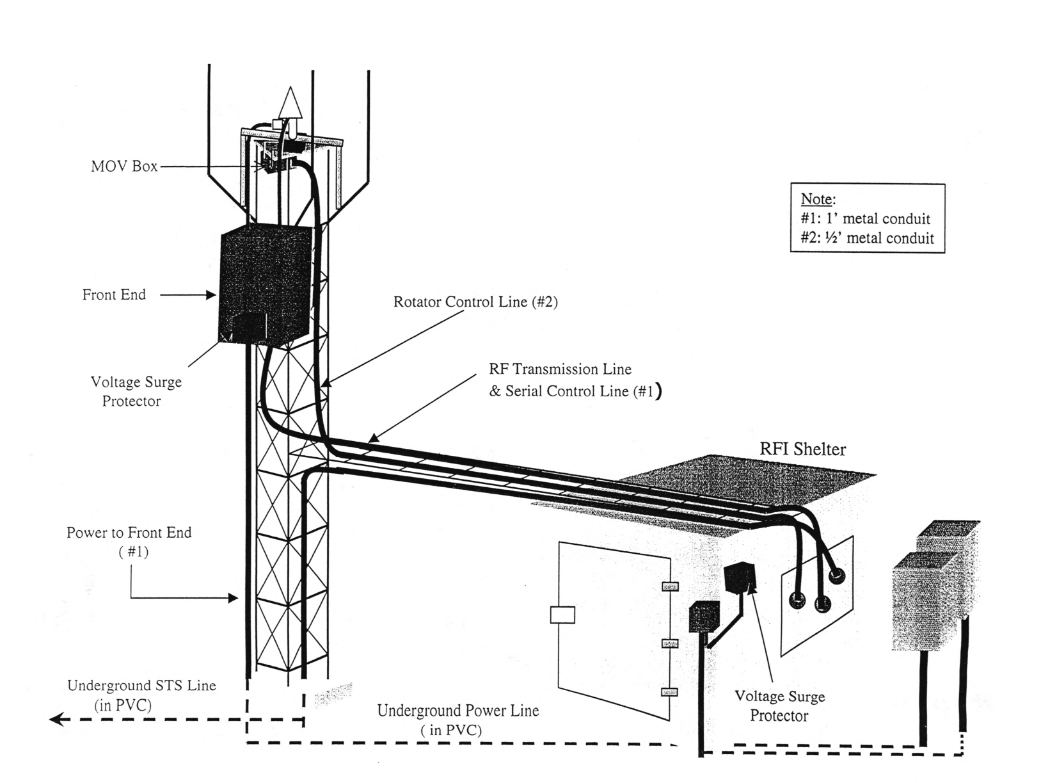
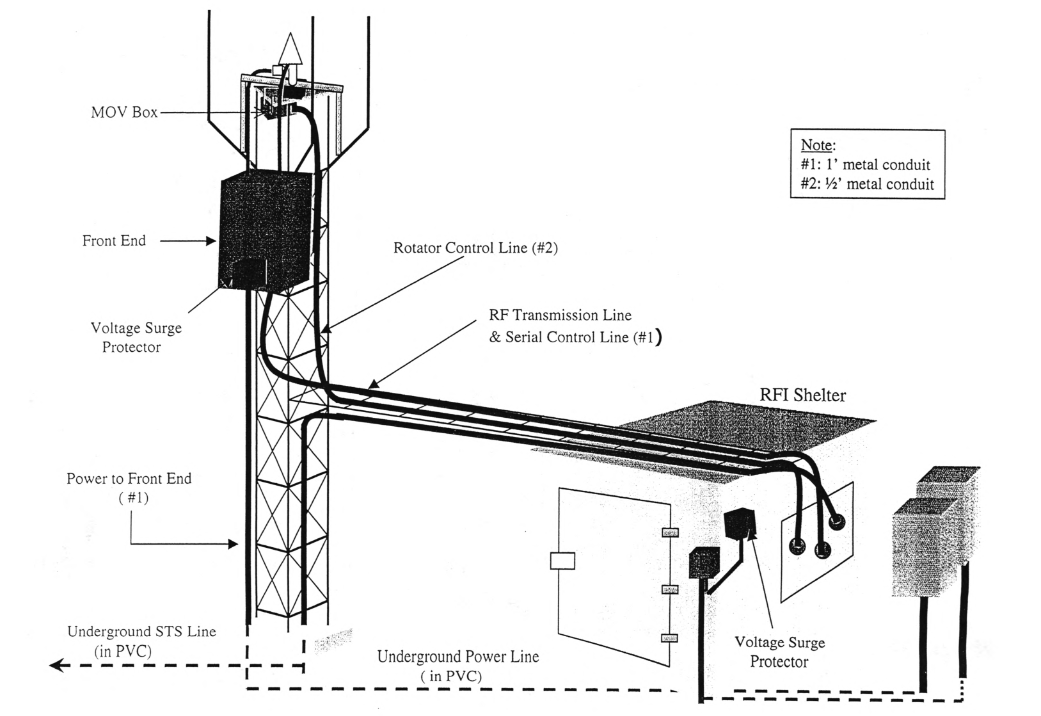
doc: additions to sections 3, 3.1, 3.2, added another diagram to ems appendix figure

diff --git a/User Guide/RF-DFS User Guide.tex b/User Guide/RF-DFS User Guide.tex
@@ -37,11 +37,12 @@
 \usepackage{listings}   % For highlighting code
 \usepackage{titling}    % To reference title, author, and date
 \usepackage{array}      % For fixed-width tables
+\usepackage{tabularx}   % For tables with automatic line breaks and fixed widths too i think
 \usepackage{makecell}   % Formats individual table cells
 \usepackage{multirow}   % For multi-row columns (Top left justify header)
 \usepackage[american]{circuitikz} % Used to draw circuit and block diagrams
 \usepackage{appendix}   
-\usepackage{xcolor}     % For coloring code listings
+\usepackage{xcolor}     % For coloring code listings and other stuff probably
 \usepackage{colortbl}   % For coloring table cells
 \definecolor{nraoblue}{rgb}{0.776,0.851,0.945}  % Color of table headers
 \usepackage{enumitem}   % For formatting enumerated lists
@@ -560,7 +561,9 @@ The LNAs in these initial 50-10000 MHz receivers are Mini-Circuits PMA3-14LN+ wi
 \end{figure}
 
 \section{Hardware Installation Guide}\label{sec:hig}
-\subsection{RFI Shack Components}
+The RFI Shack, RF-DFS, and RF-EMS all contain a metal panel upon which most of their components are mounted. This is located at the base of the pedestal for the RF-DFS and inside the front-end box for the RF-EMS (See Figure~\ref{fig:oldems}). Most components are mounted with \#4-40 or \#6-32 socket head machine screws. Each panel also has a screw terminal block for connecting non-bundled or spliced wires.
+
+\subsection{RFI Shack Components}\label{sec:higshack}
 % shack panel, switching, plc, n9040b, other stuff. PLC cat6 pinout, rs232 db9 pinout,
 The major components located in the RFI shack are as follows:
 \begin{enumerate}
@@ -580,7 +583,7 @@ The primary IO through the computer is a DB9 serial communication line to the AC
 
 Wiring from the RS-232 to RS-485 serial converter to the serial lightning protection system is shown in Figure~\ref{fig:serialwiring}. Note that the ACR9000 is capable of both RS-232 and RS-485 full-duplex operation depending on how its COM1 port pins are wired. Reference Table~\ref{tab:acr9000com1} or the ACR9000 Hardware Installation Guide for information on this.
 
-Wiring from the P1AM-100 PLC to the terminal block is done with non-bundled wire as shown in Figure~\ref{fig:rfswitchwiring}, however, a CAT6 cable must be spliced to connect the LPS to the terminal block. This installation assumes all CAT6 cables are using the T568B standard, although T568A could work as well if the wiring and pinouts are changed for it.
+Wiring from the P1AM-100 PLC to the terminal block is done with non-bundled wire as shown in Figure~\ref{fig:rfswitchwiring}, however, a CAT6 cable must be spliced to connect the LPS to the terminal block. This installation assumes all CAT6 cables are using the T568B standard, although T568A could work if the wiring and pinouts are changed for it.
 
 \begin{table}
   \begin{center}
@@ -853,23 +856,29 @@ Wiring from the P1AM-100 PLC to the terminal block is done with non-bundled wire
 \caption{AAAAAAAAAAAAAAHHHHHHHHHHHHHHHHHH.}\label{fig:rfswitchwiring}
 \end{figure}
 
-\subsection{RF-DFS Components}
+\subsection{RF-DFS Components}\label{sec:higdfs}
 motor controller, motors, serial lps
-\subsection{RF-EMS Components}
+
+\subsection{RF-EMS Components}\label{sec:higems}
 % switching, amplifiers, lps,
-The major components located on the panel in the RF-EMS tower are as follows:
+The major components located on the RF-EMS tower are as follows:
 \begin{enumerate}
-  \item One IEC 60320 C14 AC power receptacle
-  \item One AC line filter
-  \item One L-com AL-CAT6AJW CAT6a Lightning Protectors
-  \item One Standard Power SPS 15-5 5V 1.5A Linear Power Supply
-  \item One Condor HB12-1.7-A+ 12V 1.7A Linear Power Supply
-  \item One Condor HBB15-1.5-A+ 15V 1.5A Linear Power Supply
-  \item One Condor HB28-1-A+ 28V Linear 1A Power Supply
-  \item Two Dynatech Microwave M4-413K201L SP4T relay switches
-  \item Two PMA3-14LN+ low noise amplifiers
+  \item One Electro-Metrics EM-6857 omnidirectional club antenna
+  \item Three lightning rods
+  \item Panel containing:
+  \begin{enumerate}
+    \item One IEC 60320 C14 AC power receptacle
+    \item One AC line filter
+    \item One L-com AL-CAT6AJW CAT6a Lightning Protectors
+    \item One Standard Power SPS 15-5 5V 1.5A Linear Power Supply
+    \item One Condor HB12-1.7-A+ 12V 1.7A Linear Power Supply
+    \item One Condor HBB15-1.5-A+ 15V 1.5A Linear Power Supply
+    \item One Condor HB28-1-A+ 28V Linear 1A Power Supply
+    \item Two Dynatech Microwave M4-413K201L SP4T relay switches
+    \item Two PMA3-14LN+ low noise amplifiers
+  \end{enumerate}
 \end{enumerate}
-These components are connected to eachother through a terminal block similar to the one seen in the RFI shack. The 4 power supplies provide DC power to all of the RF components although only the 12 and 28 volt supplies are used for the LNAs and switches, respectively. The other two power supplies remain from previous iterations of this system and can be used for future upgrades.
+The panel components are connected to eachother through a terminal block similar to the one seen in the RFI shack. The 4 power supplies provide DC power to all of the RF components although only the 12 and 28 volt supplies are used for the LNAs and switches, respectively. The other two power supplies remain from previous iterations of this system and can be used for future upgrades.
 
 \begin{figure}
   \begin{center}
@@ -930,23 +939,89 @@ These components are connected to eachother through a terminal block similar to 
   \caption{RF-EMS Power Connection Diagram.}\label{fig:emsblock}
 \end{figure}
 
-\section{Communications}
+\section{Communications}\label{sec:comms}
 % maybe put pinouts and connections here instead to keep them all together
 The Python program controls communications with all off the necessary instruments but it is still necessary for a user to understand how these communications are facilitated in order to troubleshoot issues. The following sections describe how to open communications with each instrument manually and using the Python program.
 
-\subsection{Spectrum Analyzer}
+\subsection{Spectrum Analyzer}\label{sec:commssa}
 % scpi commands, how it works, etc, explain not to issue commands while program is running
-SCPI commands are issued to the spectrum analyzer via the PyVISA module, this uses an NI-VISA backend and requires it for the program to function. If the user is running the program for the first time, connection should be tested with the NI-VISA Interactive Control program before attempting to use the Python interface. Once a connection is established, issue an identify (\verb|*IDN?|) query to determine what device is connected. Although SCPI commands are relatively universal among instruments, the Python interface is still hard-coded for compatibility with the Keysight N9040B. If a different spectrum analyzer is used, there is no guarantee that it retains the same commands and features as the N9040B, thus some of the issued commands may throw exceptions in the Python interface.
+SCPI commands are issued to the spectrum analyzer via the PyVISA module, this uses an NI-VISA backend and requires it for the program to function. If the user is running the program for the first time, connection should be tested with the NI-VISA Interactive Control program before attempting to use the Python interface. Once a connection is established, issue an identify (\verb|*IDN?|) query to determine that the correct device is connected. Although SCPI commands are relatively universal among instruments, the Python interface is still hard-coded for compatibility with the Keysight N9040B. If a different spectrum analyzer is used, there is no guarantee that it retains the same commands and features as the N9040B, thus some of the issued commands may throw exceptions in the Python interface. 
+
 If the user cannot connect to the spectrum analyzer with NI-VISA, the Python interface will not be able to connect either and they must troubleshoot any errors with hardware connections, drivers, and/or the NI-VISA installation.
 
 Immediately after connecting to an instrument (Described in Section~\ref{sec:usingtheprogram}), the Python interface will attempt to identify the device and display the name above the spectrum plot (See \verb|FrontEnd.initDevice()| in \verb|main.py|). If the connection is successful, the thread running \verb|SpecAn.analyzerDisplayLoop()| in \verb|main.py| will initialize the spectrum plot by issuing \verb|*RST|, querying errors stored on the spectrum analyzer, and querying all values displayed by the widgets to the right of the spectrum plot on the Python interface in Figure~\ref{fig:gui}. If this is successful, The spectrum plot will populate with the same points present on the spectrum analyzer's display and the control panel on the right will populate similarly. Any errors during this process will raise an exception and be output in the terminal.
 
-Care should be taken when issuing SCPI commands either through the terminal, NI-VISA, or the spectrum analyzer's display while the Python program is running in \verb|Continuous| mode as this will likely generate race conditions and raise an exception. When the program is in \verb|Single Sweep| mode, no SCPI commands are issued although the thread running 
-\verb|SpecAn.analyzerDisplayLoop()| will continue to check if a session is open to the device.
+Care should be taken when issuing SCPI commands either through the terminal, NI-VISA, or the spectrum analyzer's display while the Python program is running in \verb|Continuous| mode as this will likely generate race conditions and raise an exception. When the program is in \verb|Single Sweep| mode, no SCPI commands are issued although the thread running \verb|SpecAn.analyzerDisplayLoop()| will continue to check if a session is open to the device.
 
-\subsection{Motor Controller}
-aries command reference stuff here, what bits are used
-\subsection{PLC}
+\subsection{Motor Controller}\label{sec:commsmc}
+% aries command reference stuff here, what bits are used
+Communication with the ACR9000 motor controller is facilitated by serial connection over a DB9 cable from the RFI shack. The computer outputs RS-232 which is converted to 4-wire RS-485 before leaving the shack. The ACR9000 also communicates with the Aries azimuth and elevation servo drives via RS-232/485 but this is not controlled, interrupted, or monitored by the PC or Python program in any way.
+
+The language used when sending commands to the ACR9000 is Parker Hannifin's own AcroBASIC, this is a robust language with lots of functionality although at the cost of user-friendliness. The user should reference Parker Hannifin's \textit{ACR Command Language Reference} when troubleshooting problems and making changes to the codebase.
+
+The user can test communication and function at any time using a serial terminal emulator such as PuTTY, TeraTerm, etc., with the default configuration of 9600 baud, 8 data bits, no parity, 1 stop bit, and no flow control. The same precautions for generating race conditions should be taken as in Section~\ref{sec:commssa}. To control the DFS with a terminal emulator, open a connection to the ACR9000 and send a CRLF (Enter), the response from the ACR9000 will show the \textit{Prompt Level} of the device.\ \verb|SYS| is the highest communication level from which the user can navigate to \verb|PROGx| or \verb|PLCx| by typing the aforementioned level and pressing \verb|Enter|, where \verb|x| is a non-negative integer (usually 0).\ \verb|PROG0| is the communication level from which all of the commands used by the Python program will be sent, some relevant commands are listed in Table~asdf.
+\begin{table}
+  \begin{center}
+    \begin{tabularx}{\linewidth}{l|>{\raggedright\arraybackslash}X|>{\raggedright\arraybackslash}X}
+      Command          & Function & Example \\ \hline
+
+      \lstinline|PROG| &
+      This command switches the communication channel to the designated
+      program prompt. &
+      The prompt keeps track of your current program or system level as follows: \newline
+      \lstinline|SYS>PROG3| \newline
+      \lstinline|P03>PROG0| \newline
+      \lstinline|P00>SYS| \newline
+      \lstinline|SYS>_|
+      \\ \hline
+
+      \makecell[lt]{
+        \lstinline|DRIVE| \\
+        \lstinline|DRIVE ON| \\
+        \lstinline|DRIVE OFF| \\
+        \lstinline|DRIVE RES|
+      } &
+      The \lstinline|DRIVE| command provides a report-back of the drive's status, lets you
+      energize/de-energizes a motor/drive combination or reset the drive. &
+      The following example reports the drive status of axis X. \newline
+      \lstinline|P00>DRIVE X| \newline
+      \lstinline|DRIVE OFF| \newline
+      \lstinline|P00>_|
+      \\ \hline
+
+      \makecell[lt]{
+        \lstinline|JOG| \\
+        \lstinline|JOG ABS| \\
+        \lstinline|JOG INC|
+      } &
+      Jogging, used along with a second command, sets up an individual velocity profile for an axis to a given velocity, generating a jog offset. This offset can be absolute or incremental from the current position. &
+      The following example moves the X axis 5 degrees and Y axis 10 degrees, then back. \newline
+      \lstinline|P00>JOG INC X 5| \newline
+      \lstinline|P00>JOG INC Y 10| \newline
+      \lstinline|P00>JOG INC X -5  Y -10| \newline
+      \lstinline|P00>_|
+      \\ \hline
+
+      \makecell[lt]{
+        \lstinline|PRINT| \\
+        \lstinline|PRINT BIT792| \\
+        \lstinline|PRINT BIT824| \\
+        \lstinline|PRINT P6144| \\
+        \lstinline|PRINT P6160|
+      } &
+      This command prints a series of expressions (parameter, bit, and string values) to a device. Bits 792 and 824 return -1 if the X and Y axis are moving and 0 if stationary, respectively. Parameters 6144 and 6160 return the X and Y axis encoder positions, respectively. &
+      The following example checks if the X axis is moving, then checks its encoder position. \newline
+      \lstinline|P00>PRINT BIT792| \newline
+      \lstinline|0| \newline
+      \lstinline|P00>PRINT P6144| \newline
+      \lstinline|-235753513| \newline
+      \lstinline|P00>_|
+    \end{tabularx}
+  \end{center}
+  \caption{ACR9000 Commands Used by the Python Program.}\label{tab:acrcommands}
+\end{table}
+
+\subsection{PLC}\label{sec:commsplc}
 opcodes
 
 \section{Software User Guide}
@@ -1010,15 +1085,15 @@ thread=threading.Thread(target=Vi.openRsrc.write, args=(":SENS:FREQ:STOP 10e9",)
 thread.start()
 \end{lstlisting}  
 
-\newpage
 \section{Appendix}
 \subsection{RF-EMS Conduit Diagram}
-Figure~\ref{fig:oldems} shows a diagram of the EMS lightning protection system from the 2001 NMT Senior Design report of the EMS (VLA/VLBA Interference Memo \#19). This iteration had some notable differences such as an azimuth and elevation rotator, serial control lines, and metal-oxide varistors for lightning protection. None of these are used in this upgrade project but the diagram may still be useful for characterizing conduit lines. Note that STS refers to the previous name for the RF-DFS - the Satellite Tracking System.
+Figure~\ref{fig:oldems} shows two diagrams of the EMS lightning protection system from the 2001 NMT Senior Design report of the EMS (VLA/VLBA Interference Memo \#19). This iteration had some notable differences such as an azimuth and elevation rotator, serial control lines, and metal-oxide varistors for lightning protection. None of these are used in this upgrade project but the diagrams may still be useful for characterizing conduit lines. Note that STS refers to the previous name for the RF-DFS - the Satellite Tracking System.
 \begin{figure}[!h]
   \begin{center}
-    \includegraphics[width=\textwidth]{images/oldems.png}
+    \includegraphics[width=0.8\textwidth]{images/oldems.png}
+    \includegraphics[width=\textwidth]{images/oldems2.png}
   \end{center}
-  \caption{2001 RF-EMS Lightning Protection System Diagram.}\label{fig:oldems}
+  \caption{2001 RF-EMS Lightning Protection System.}\label{fig:oldems}
 \end{figure}
 
 \end{document}
